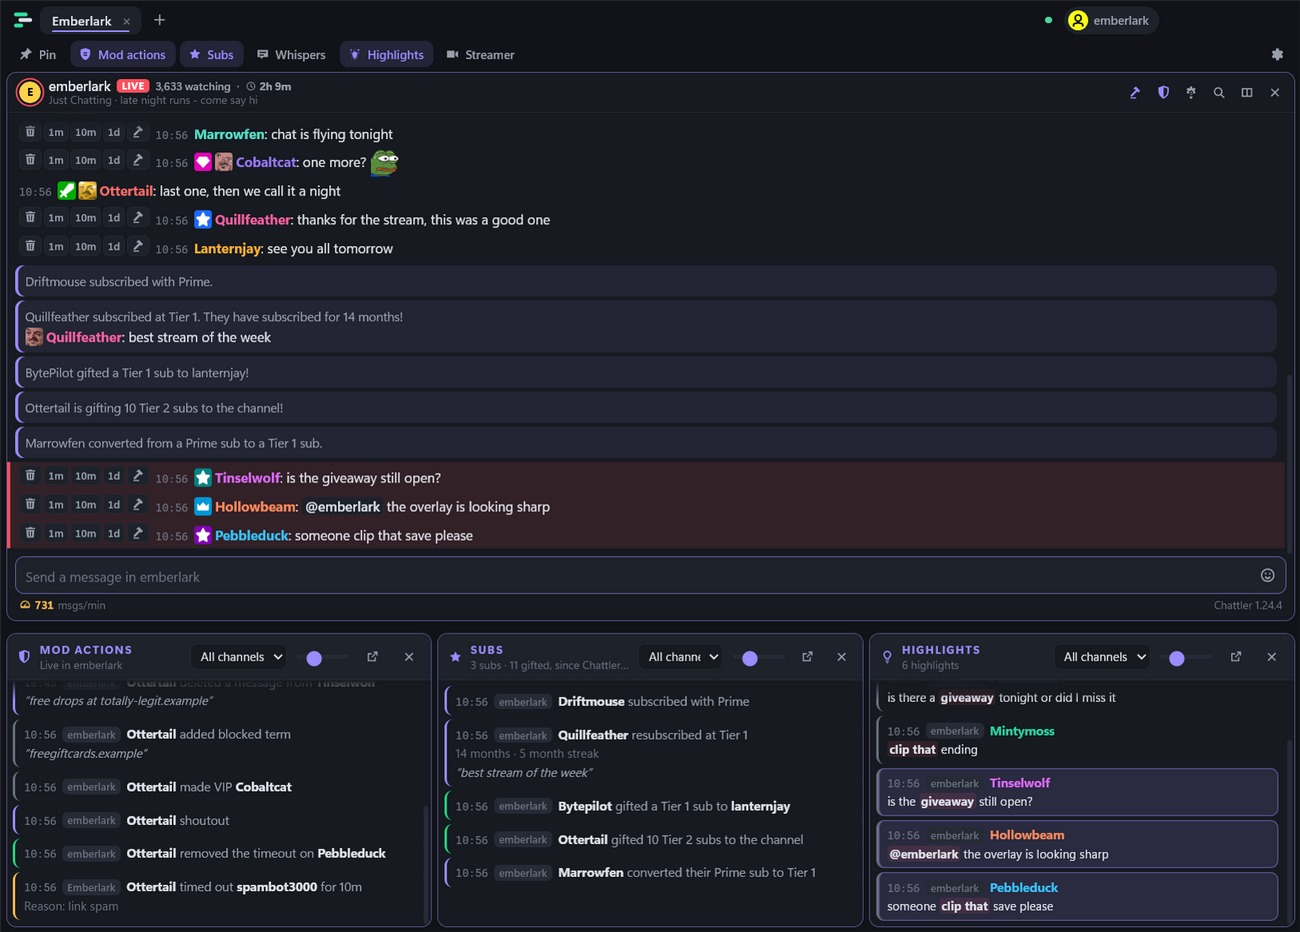
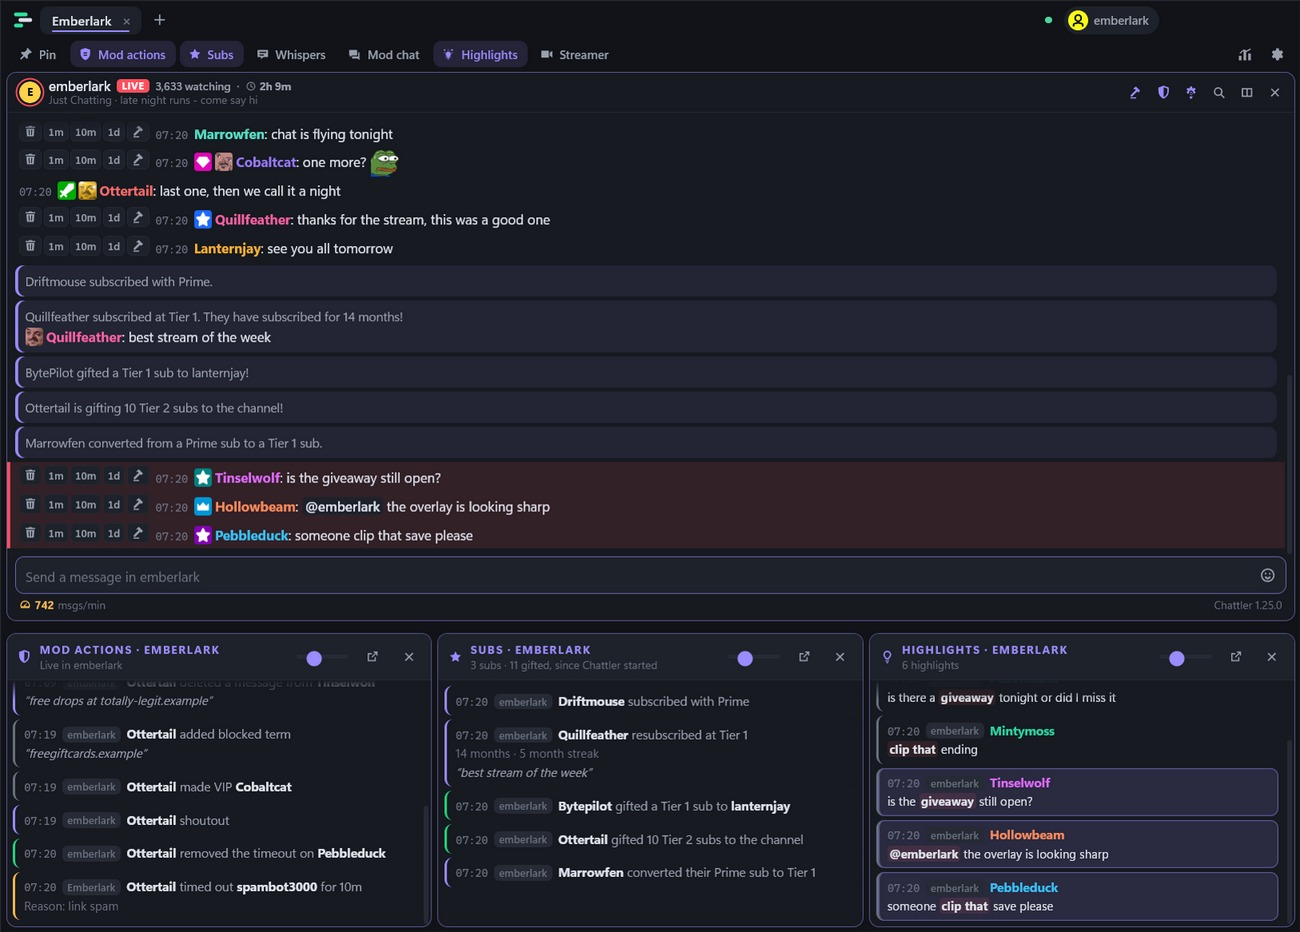
Update website

diff --git a/docs/screenshots/index.html b/docs/screenshots/index.html
@@ -53,6 +53,7 @@
     <li><a href="#several-chats">Several chats</a></li>
     <li><a href="#user-cards">User cards</a></li>
     <li><a href="#moderation">Moderation</a></li>
+    <li><a href="#polls">Polls</a></li>
     <li><a href="#whispers">Whispers</a></li>
     <li><a href="#emotes">Emotes</a></li>
     <li><a href="#settings">Settings</a></li>
@@ -149,6 +150,19 @@
         <img src="../assets/shots/automod.jpg?v=2026-10-18" alt="Chat showing two AutoMod held messages with Allow and Deny, a monitored user's message tinted red, and a restricted user's hidden message on a card with Monitor, Restrict and No restrictions." width="1300" height="932" loading="lazy">
       </a>
       <figcaption><b>Held and flagged</b> AutoMod cards say what tripped them and underline the words, with Allow and Deny. Monitored people stand out in red, and a restricted person's message - which never reaches chat - appears for moderators only, with Monitor, Restrict and No restrictions.</figcaption>
+    </figure>
+  </section>
+
+  <section class="shot-group" id="polls">
+    <header>
+      <h2>Polls and predictions</h2>
+      <p>Start one in two clicks, watch it fill, lock it and pay it out - without leaving the chat.</p>
+    </header>
+    <figure class="shot wide">
+      <a href="../assets/shots/polls.jpg?v=2026-10-19" target="_blank" rel="noopener">
+        <img src="../assets/shots/polls.jpg?v=2026-10-19" alt="Chattler with a prediction running: two outcomes with the points staked on each, how many people backed them, the time left, and buttons to lock, refund or open Twitch." width="1300" height="932" loading="lazy">
+      </a>
+      <figcaption><b>Polls and predictions</b> Presets make the usual question one click, or type one line. While it runs you see the share of the vote, the points staked and the time left. Lock a prediction and pay it out to one side, or refund everyone. Voting itself happens on Twitch, which is the only place any app can send you.</figcaption>
     </figure>
   </section>
 

diff --git a/docs/index.html b/docs/index.html
@@ -42,7 +42,7 @@
   "description": "A fast, free Twitch chat client for Windows with tabs and splits, 7TV, BetterTTV and FrankerFaceZ emotes, and one-click moderation tools including AutoMod, staff history and user cards.",
   "applicationCategory": "CommunicationApplication",
   "operatingSystem": "Windows 10, Windows 11",
-  "softwareVersion": "1.24.10",
+  "softwareVersion": "1.25.0",
   "releaseNotes": "https://chattler.net/#releases",
   "downloadUrl": "https://chattler.net/#download",
   "installUrl": "https://chattler.net/#download",

diff --git a/docs/guide/guide.md b/docs/guide/guide.md
@@ -395,6 +395,16 @@ Click **Mod actions** in the toolbar to open a panel under the chat listing **ev
 - If a channel you moderate isn’t being recorded, a warning at the top names it, so you know its actions can’t appear.
 - It works for channels you moderate that are open in Chattler (with Staff history permissions). Twitch doesn’t let apps read its own mod log, so anything from before anyone on the team ran Chattler isn’t available.
 
+### Polls and predictions
+Turn on **Settings -> Moderation -> Polls and predictions** and a button appears beside Settings, for whichever chat you are reading if you moderate it.
+
+- **Two clicks to start one.** The panel keeps presets - a title, the options and a length - so the usual question is one click. Underneath is a short form for anything else: a title, up to five options for a poll or ten for a prediction, and a length of 30s, 1m, 2m or 5m.
+- **Typing is faster**: `/poll Do we run it back? | Yes | No | 60` and `/pred Will they clutch it? | Yes | No | 90`. Leave the number off and it uses 60 seconds for a poll, 90 for a prediction.
+- **While one is running** the panel draws it the way Twitch does: a bar each with the share of the vote, the points staked and how many people backed it, and the time left. A poll can be ended early. A prediction can be **locked**, then paid out to one side with a click, or **refunded** so everyone gets their points back. Paying out asks first, since Twitch cannot undo it.
+- **Voting and spending points happen on Twitch**, not here. There is no API for either, for any app - so the panel has a **Vote on Twitch** button that opens the channel.
+- **Twitch's own limits apply**: polls and predictions are for **Affiliate and Partner** channels, and Twitch grants permission to the channel's own account. In your own channel everything works. In a channel you moderate Chattler asks anyway and shows you whatever Twitch answers.
+- The first time, **log out and log in again** so the permission can be granted.
+
 ### Mod chat
 Click **Mod chat** for a room shared by the people who moderate that channel - somewhere to say "I'm watching this one" without it going out to chat.
 
@@ -672,6 +682,7 @@ Open with **⚙** or **Ctrl+,**. Every section starts closed - click a heading (
 | **Moderation** | Highlight suspicious users | Off |
 | | Pause chat while hovering | Off |
 | | Pause for | While hovering |
+| | Polls and predictions | Off |
 | | Mod chat | Off |
 | | Quick buttons on each message (Delete, Ban, and any lengths you add) | Delete, 10m, Ban |
 | **Keyboard** | Shortcut list | - |
